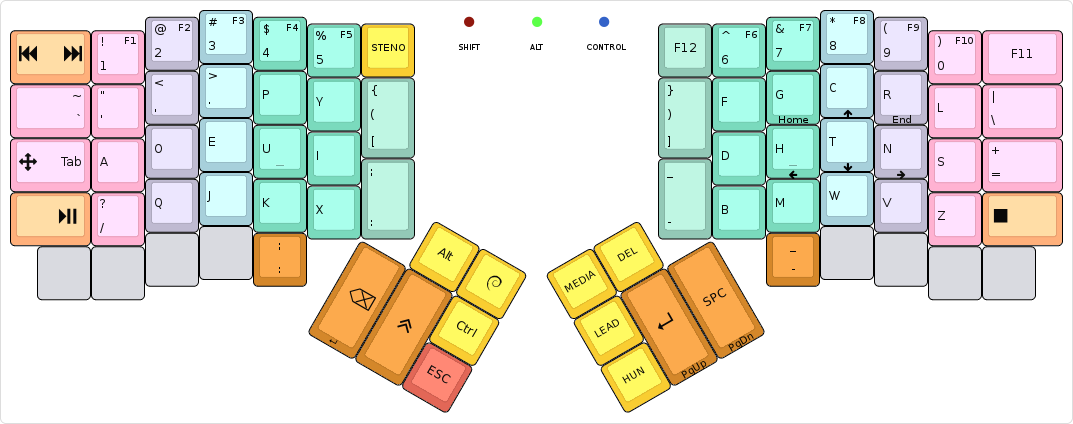
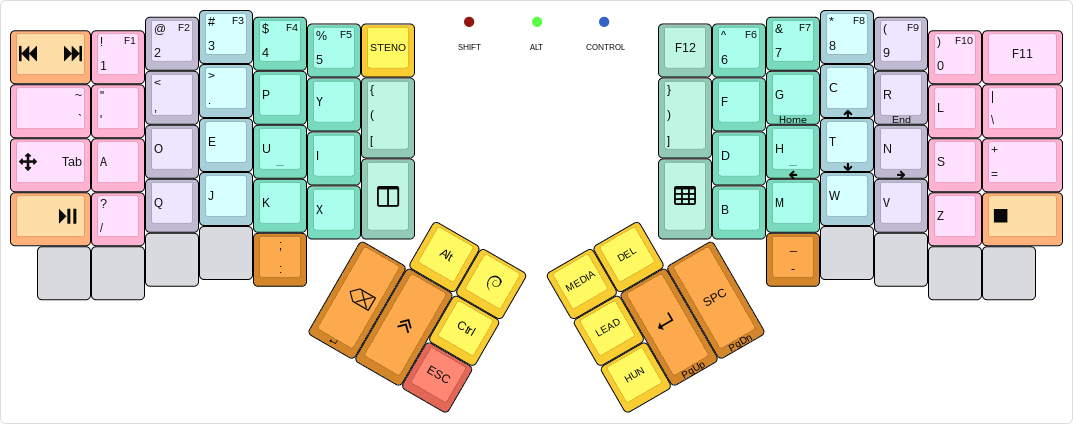
Add a pair of tmux keys
Move the :/- keys back to their bottom-row thumb position on all layers,
and replace the bottom large keys on the inner side with a pair of tmux
keys.

This fixes #108.

diff --git a/keymap.c b/keymap.c
@@ -36,6 +36,10 @@ enum {
   A_PLVR,
   A_MPN,
 
+  // TMUX keys
+  A_TMUX,
+  A_TMUXP,
+
   // Application select keys
   APP_SLK, // Slack
   APP_EMCS, // Emacs
@@ -126,8 +130,8 @@ const uint16_t PROGMEM keymaps[][MATRIX_ROWS][MATRIX_COLS] = {
  * |         ~ |   '  |   ,  |   .  |   P  |   Y  |   (  |           |  )   |   F  |   G  |   C  |   R  |  L   | \         |
  * |-----------+------+------+------+------+------|   [  |           |  ]   |------+------+------+------+------+-----------|
  * | Tab/ARROW |   A  |   O  |   E  |   U  |   I  |------|           |------|   D  |   H  |   T  |   N  |  S   | = / Arrow |
- * |-----------+------+------+------+------+------|   :  |           |  -   |------+------+------+------+------+-----------|
- * | Play/Pause|   /  |   Q  |   J  |   K  |   X  |      |           |      |   B  |   M  |   W  |   V  |  Z   |      Stop |
+ * |-----------+------+------+------+------+------| tmux |           | tmux |------+------+------+------+------+-----------|
+ * | Play/Pause|   /  |   Q  |   J  |   K  |   X  |      |           | Pane |   B  |   M  |   W  |   V  |  Z   |      Stop |
  * `-----------+------+------+------+------+-------------'           `-------------+------+------+------+------+-----------'
  *     |       |      |      |      |   :  |                                       |   -  |      |      |      |       |
  *     `-----------------------------------'                                       `-----------------------------------'
@@ -144,7 +148,7 @@ const uint16_t PROGMEM keymaps[][MATRIX_ROWS][MATRIX_COLS] = {
  M(A_MPN)           ,TD(KF_1)    ,TD(KF_2)    ,TD(KF_3),TD(KF_4),TD(KF_5),M(A_PLVR)
 ,KC_GRV             ,KC_QUOT     ,KC_COMM     ,KC_DOT  ,KC_P    ,KC_Y    ,TD(CT_LBP)
 ,TD(CT_TA)          ,KC_A        ,KC_O        ,KC_E    ,KC_U    ,KC_I
-,KC_MPLY            ,KC_SLSH     ,KC_Q        ,KC_J    ,KC_K    ,KC_X    ,TD(CT_CLN)
+,KC_MPLY            ,KC_SLSH     ,KC_Q        ,KC_J    ,KC_K    ,KC_X    ,M(A_TMUX)
 ,KC_NO              ,KC_NO       ,KC_NO       ,KC_NO   ,TD(CT_CLN)
 
                                                             ,F(F_ALT),F(F_GUI)
@@ -155,7 +159,7 @@ const uint16_t PROGMEM keymaps[][MATRIX_ROWS][MATRIX_COLS] = {
                                                                ,KC_F12    ,TD(KF_6),TD(KF_7)  ,TD(KF_8),TD(KF_9),TD(KF_10),KC_F11
                                                                ,TD(CT_RBP),KC_F    ,KC_G      ,KC_C    ,KC_R    ,KC_L     ,KC_BSLS
                                                                           ,KC_D    ,KC_H      ,KC_T    ,KC_N    ,KC_S     ,KC_EQL
-                                                               ,KC_MINS   ,KC_B    ,KC_M      ,KC_W    ,KC_V    ,KC_Z     ,KC_MSTP
+                                                               ,M(A_TMUXP),KC_B    ,KC_M      ,KC_W    ,KC_V    ,KC_Z     ,KC_MSTP
                                                                                    ,KC_MINS   ,KC_NO   ,KC_NO   ,KC_NO    ,KC_NO
 
                                                                ,OSL(NMDIA),KC_DEL
@@ -171,10 +175,10 @@ const uint16_t PROGMEM keymaps[][MATRIX_ROWS][MATRIX_COLS] = {
  * |        `~ |   Y  |   W  |   G  |   L  |   M  |   (  |           |  )   |   F  |   H  |   C  |   P  |  X   | \         |
  * |-----------+------+------+------+------+------|   [  |           |  ]   |------+------+------+------+------+-----------|
  * | Tab/Arrow |   A  |   O  |   E  |   I  |   U  |------|           |------|   D  |   R  |   T  |   N  |  S   | =         |
- * |-----------+------+------+------+------+------|      |           |      |------+------+------+------+------+-----------|
- * |           |   Z  |   Q  |   '  |   ,  |   .  |   :  |           |  -   |   B  |   K  |   V  |   J  |  /   |           |
+ * |-----------+------+------+------+------+------| tmux |           | tmux |------+------+------+------+------+-----------|
+ * |           |   Z  |   Q  |   '  |   ,  |   .  |      |           | pane |   B  |   K  |   V  |   J  |  /   |           |
  * `-----------+------+------+------+------+-------------'           `-------------+------+------+------+------+-----------'
- *     |       |      |      |      |      |                                       |      |      |      |      |       |
+ *     |       |      |      |      |   :  |                                       |   -  |      |      |      |       |
  *     `-----------------------------------'                                       `-----------------------------------'
  *                                         ,-------------.           ,-------------.
  *                                         | LAlt | GUI  |           | MDIA | Del  |
@@ -189,8 +193,8 @@ const uint16_t PROGMEM keymaps[][MATRIX_ROWS][MATRIX_COLS] = {
  KC_MPLY            ,TD(KF_1)    ,TD(KF_2)    ,TD(KF_3),TD(KF_4),TD(KF_5),M(A_PLVR)
 ,KC_GRV             ,KC_Y        ,KC_W        ,KC_G    ,KC_L    ,KC_M   ,TD(CT_LBP)
 ,TD(CT_TA)          ,KC_A        ,KC_O        ,KC_E    ,KC_I    ,KC_U
-,KC_NO              ,KC_Z        ,KC_Q        ,KC_QUOT ,KC_COMM ,KC_DOT ,TD(CT_CLN)
-,KC_NO              ,KC_NO       ,KC_NO       ,KC_NO   ,KC_NO
+,KC_NO              ,KC_Z        ,KC_Q        ,KC_QUOT ,KC_COMM ,KC_DOT ,M(A_TMUX)
+,KC_NO              ,KC_NO       ,KC_NO       ,KC_NO   ,TD(CT_CLN)
 
                                                             ,F(F_ALT),F(F_GUI)
                                                                      ,F(F_CTRL)
@@ -200,8 +204,8 @@ const uint16_t PROGMEM keymaps[][MATRIX_ROWS][MATRIX_COLS] = {
                                                                ,KC_F12    ,TD(KF_6),TD(KF_7),TD(KF_8),TD(KF_9),TD(KF_10),KC_F11
                                                                ,TD(CT_RBP),KC_F    ,KC_H    ,KC_C    ,KC_P    ,KC_X     ,KC_BSLS
                                                                           ,KC_D    ,KC_R    ,KC_T    ,KC_N    ,KC_S     ,KC_EQL
-                                                               ,KC_MINS   ,KC_B    ,KC_K    ,KC_V    ,KC_J    ,KC_SLSH  ,KC_NO
-                                                                                   ,KC_NO   ,KC_NO   ,KC_NO   ,KC_NO    ,KC_NO
+                                                               ,M(A_TMUXP),KC_B    ,KC_K    ,KC_V    ,KC_J    ,KC_SLSH  ,KC_NO
+                                                                                   ,KC_MINS ,KC_NO   ,KC_NO   ,KC_NO    ,KC_NO
 
                                                                ,OSL(NMDIA),KC_DEL
                                                                ,F(F_HUN)
@@ -670,6 +674,13 @@ const macro_t *action_get_macro(keyrecord_t *record, uint8_t id, uint8_t opt)
 
       case APP_MSIC:
         return MACRODOWN(T(R), T(H), T(Y), T(T), T(H), T(M), T(B), T(O), T(X), T(ENT), END);
+
+        // Tmux keys
+      case A_TMUX:
+        return MACRODOWN(D(LALT), T(SPC), U(LALT), END);
+
+      case A_TMUXP:
+        return MACRODOWN(D(LALT), T(SPC), U(LALT), T(P), END);
       }
 
       return MACRO_NONE;

diff --git a/readme.md b/readme.md
@@ -163,6 +163,8 @@ The keymap default to forcing NKRO, which seems to upset Windows, and except the
 ### Overall changes
 
 * The number/function key behavior was changed: instead of a long press, one needs to double-tap now to access the function keys.
+* The `:`/`;` and `-`/`_` keys were put back to their thumb position on the bottom row, on both the [Base](#base-layer) and [ADORE](#adore-layer) layers.
+* The bottom large keys on the inner side of each half now function as [tmux](http://tmux.github.io/) keys: the left to send the prefix, the right to send the `display-panes` key.
 
 ## v1.6
 
